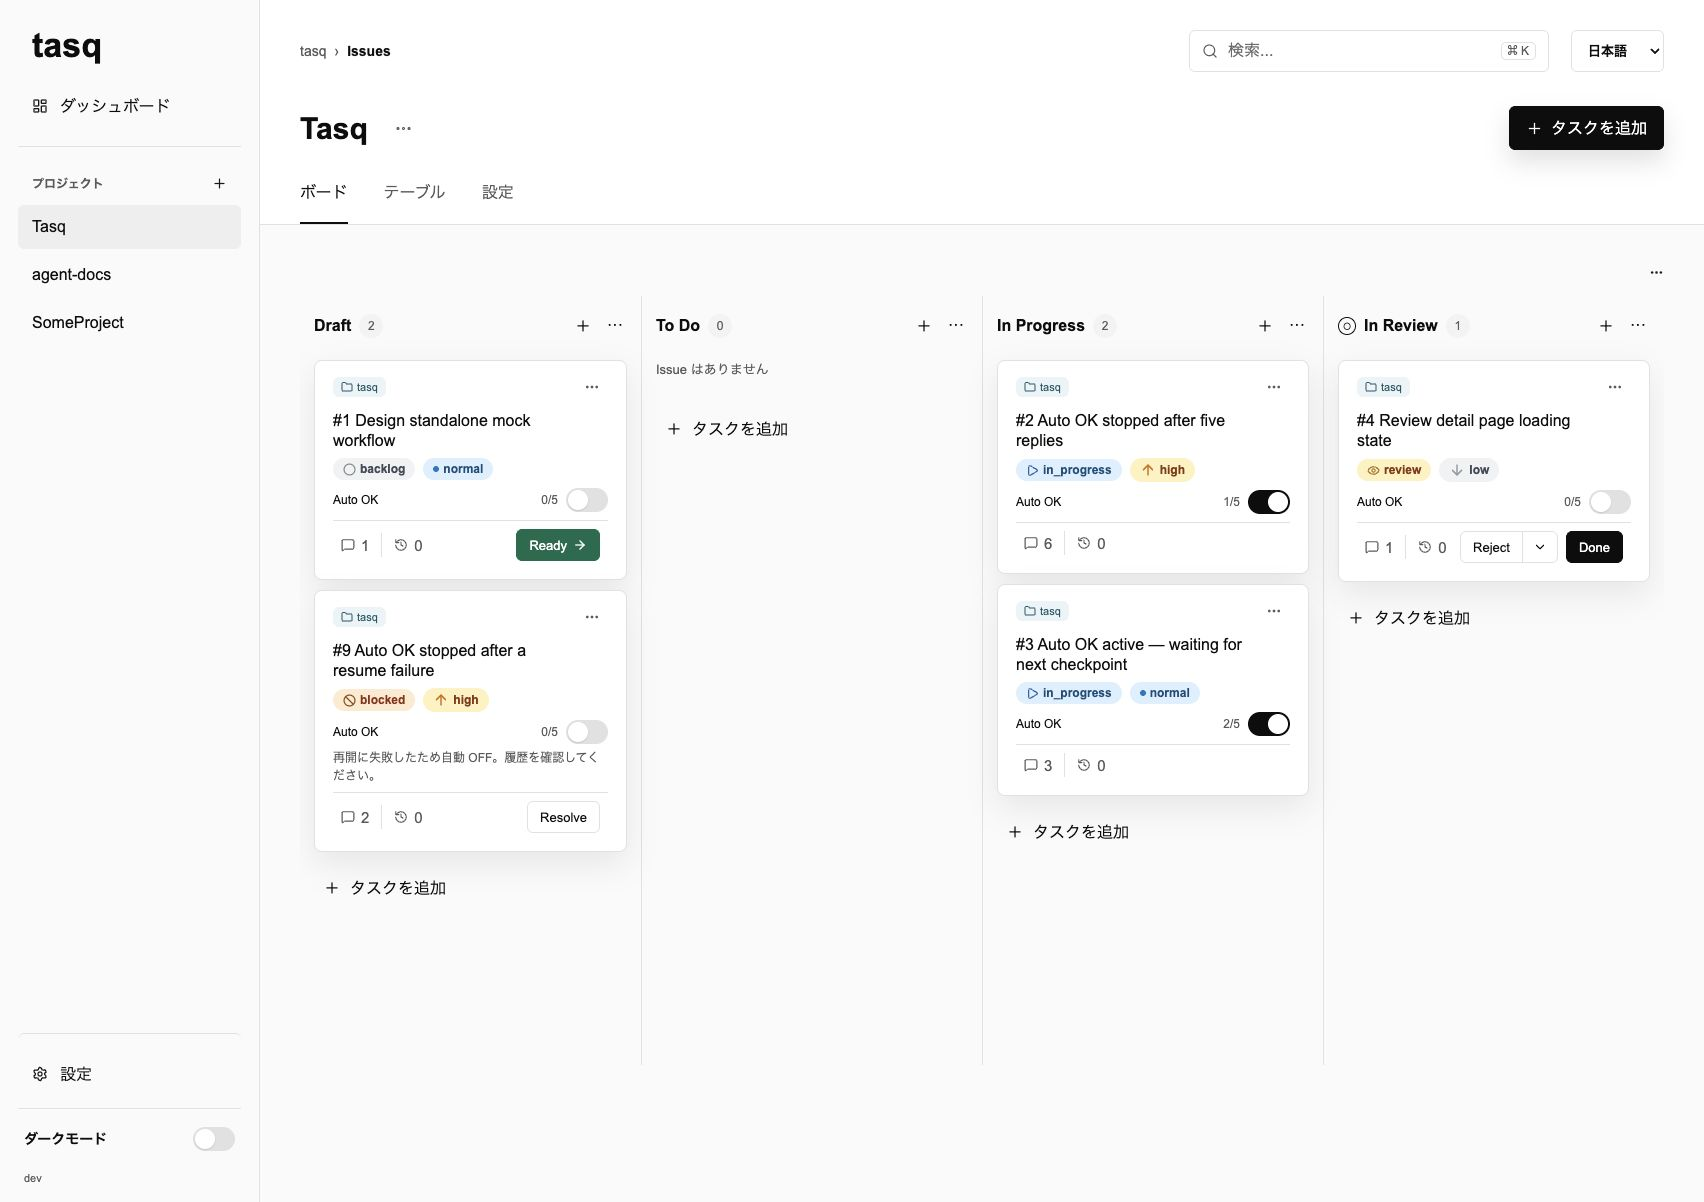
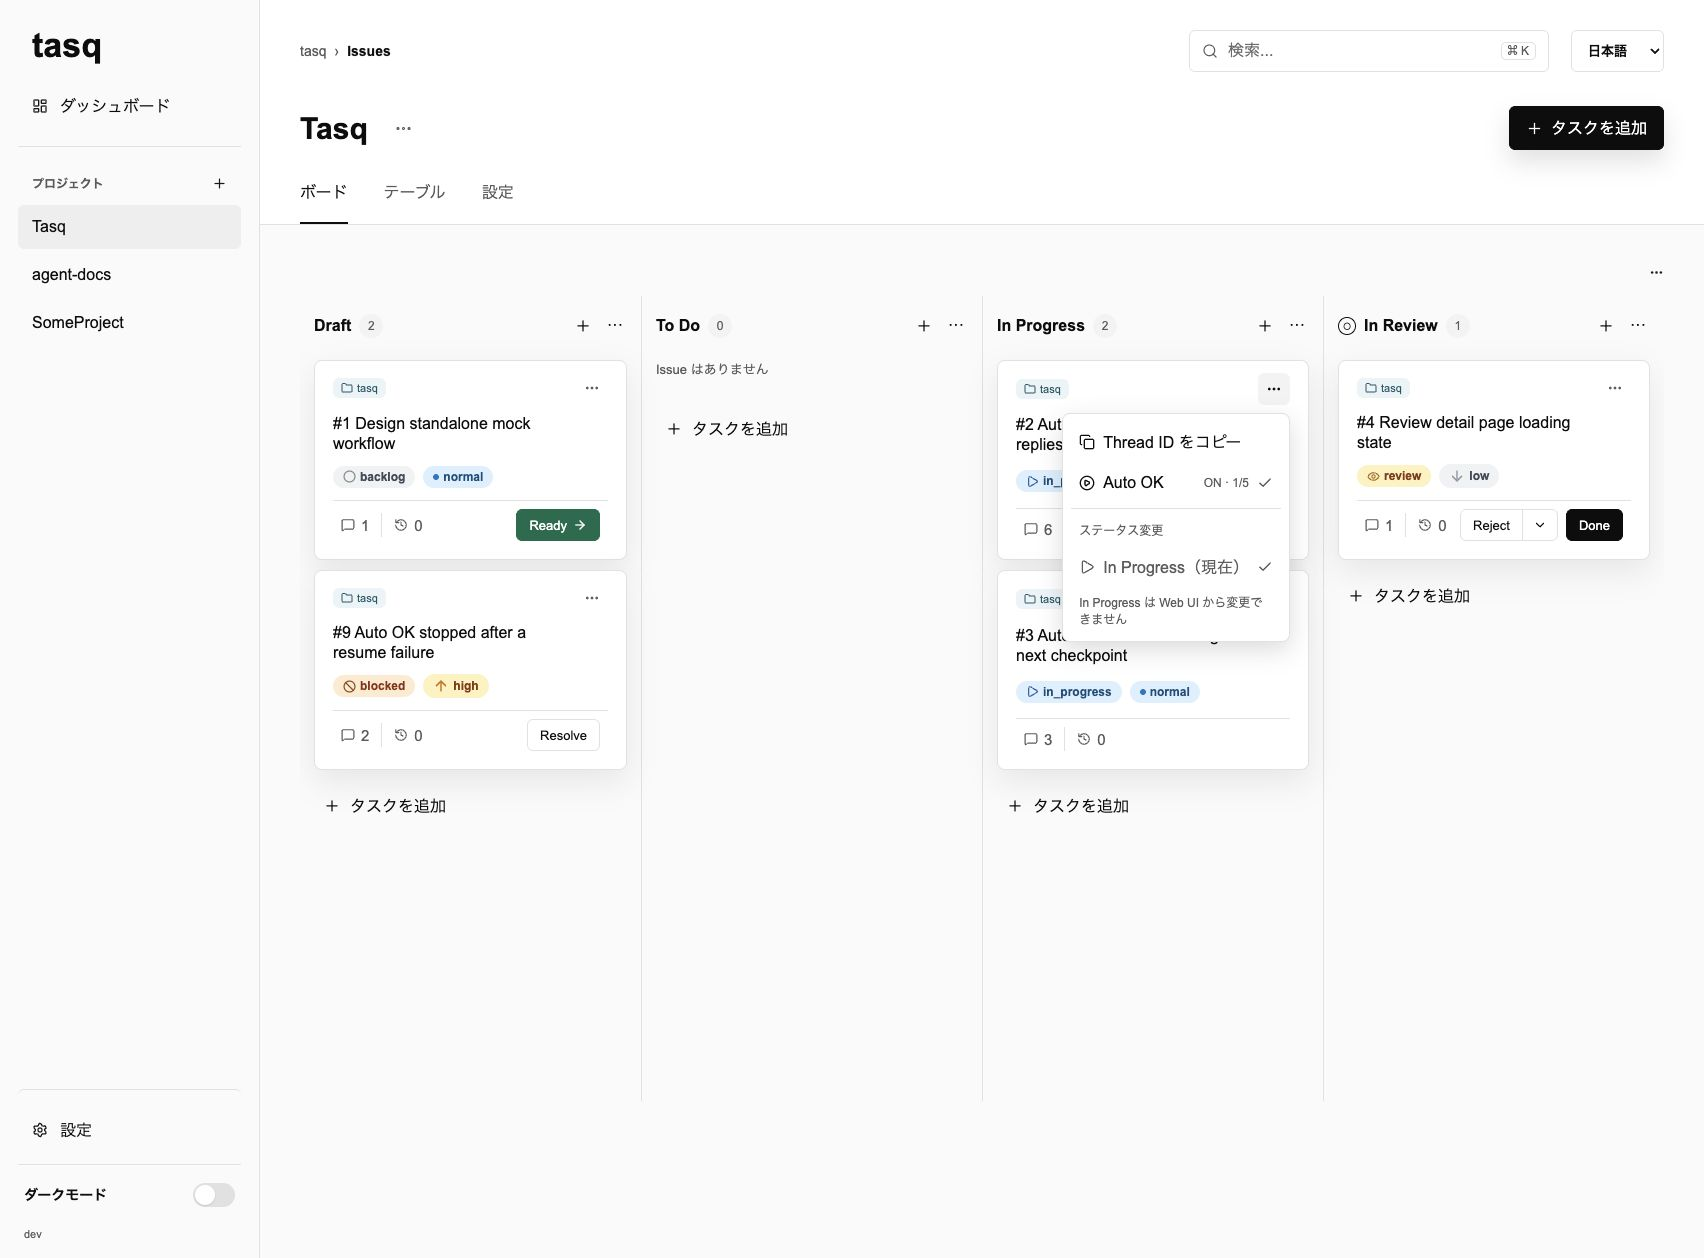
feat: configure auto ok from the issue card dropdown
Add a menuitemcheckbox-based Auto OK toggle with ON/OFF state, count persistence, keyboard support, and read-only coverage. Update the issue-card stories, tests, screenshots, and English/Japanese documentation.\n\nValidation: 159 frontend tests, typecheck, and build passed.

diff --git a/cmd/web/frontend/src/features/issues/components/auto-ok-control/index.test.tsx b/cmd/web/frontend/src/features/issues/components/auto-ok-control/index.test.tsx
@@ -5,13 +5,17 @@ import { storyIssue } from "@/stories/fixtures";
 import "@/lib/i18n";
 import { AutoOKControl } from "./index";
 
+function renderControl(props: Parameters<typeof AutoOKControl>[0]) {
+  return render(<div role="menu" aria-label="Issue actions"><AutoOKControl {...props} /></div>);
+}
+
 describe("AutoOKControl", () => {
   it("sends the issue setting and prevents duplicate changes while saving", async () => {
     const user = userEvent.setup();
     let finish: (() => void) | undefined;
     const onChange = vi.fn(() => new Promise<void>((resolve) => { finish = resolve; }));
-    render(<AutoOKControl issue={storyIssue()} onChange={onChange} />);
-    const toggle = screen.getByRole("checkbox");
+    renderControl({ issue: storyIssue(), onChange });
+    const toggle = screen.getByRole("menuitemcheckbox");
     await user.click(screen.getByText("Auto OK"));
     expect(onChange).toHaveBeenCalledWith(storyIssue().id, true);
     expect(toggle).toBeDisabled();
@@ -23,18 +27,35 @@ describe("AutoOKControl", () => {
 
   it("keeps the saved setting after an API failure", async () => {
     const user = userEvent.setup();
-    render(<AutoOKControl issue={storyIssue()} onChange={vi.fn().mockRejectedValue(new Error("offline"))} />);
-    const toggle = screen.getByRole("checkbox");
+    renderControl({ issue: storyIssue(), onChange: vi.fn().mockRejectedValue(new Error("offline")) });
+    const toggle = screen.getByRole("menuitemcheckbox");
     await user.click(screen.getByText("Auto OK"));
     await waitFor(() => expect(toggle).not.toBeDisabled());
-    expect(toggle).not.toBeChecked();
+    expect(toggle).toHaveAttribute("aria-checked", "false");
     expect(screen.getByRole("alert")).toBeInTheDocument();
   });
 
   it("shows the persisted count and automatic stop reason", () => {
-    render(<AutoOKControl issue={{ ...storyIssue(), autoOkCount: 5, autoOkStopReason: "limit" }} onChange={vi.fn()} />);
-    expect(screen.getByText("5/5")).toBeInTheDocument();
+    renderControl({ issue: { ...storyIssue(), autoOkCount: 5, autoOkStopReason: "limit" }, onChange: vi.fn() });
+    expect(screen.getByText("OFF · 5/5")).toBeInTheDocument();
     expect(screen.getByText(/5回に達した|after 5 replies/)).toBeInTheDocument();
-    expect(screen.getByRole("checkbox")).not.toBeChecked();
+    expect(screen.getByRole("menuitemcheckbox")).toHaveAttribute("aria-checked", "false");
+  });
+
+  it("exposes the saved checked state and supports keyboard toggling", async () => {
+    const user = userEvent.setup();
+    const onChange = vi.fn().mockResolvedValue(undefined);
+    renderControl({ issue: { ...storyIssue(), autoOk: true, autoOkCount: 2 }, onChange });
+    const item = screen.getByRole("menuitemcheckbox");
+    expect(item).toHaveAttribute("aria-checked", "true");
+    expect(item).toHaveTextContent("ON · 2/5");
+    item.focus();
+    await user.keyboard(" ");
+    expect(onChange).toHaveBeenCalledWith(storyIssue().id, false);
+  });
+
+  it("disables editing for read-only cards", () => {
+    renderControl({ issue: storyIssue(), disabled: true, onChange: vi.fn() });
+    expect(screen.getByRole("menuitemcheckbox")).toBeDisabled();
   });
 });

diff --git a/cmd/web/frontend/src/features/issues/components/auto-ok-control/index.tsx b/cmd/web/frontend/src/features/issues/components/auto-ok-control/index.tsx
@@ -1,5 +1,6 @@
 import { useTranslation } from "react-i18next";
-import { Switch } from "@/components/ui/switch";
+import { ContextMenuHelp, ContextMenuItem } from "@/components/ui/context-menu";
+import { IconProxy } from "@/components/ui/icon-proxy";
 import type { Issue } from "@/lib/types";
 import type { AutoOKChangeHandler } from "../issues-view/types";
 import { useAutoOKToggle } from "@/features/issues/hooks/use-auto-ok-toggle";
@@ -18,17 +19,22 @@ export function AutoOKControl({ issue, disabled = false, onChange }: {
 
   return (
     <div className={styles.control} aria-busy={isSaving}>
-      <label className={styles.row}>
-        <span>{t("issues.autoOK.label")}</span>
-        <span className={styles.count}>{issue.autoOkCount}/5</span>
-        <Switch
-          aria-label={t("issues.autoOK.toggle", { id: issue.id })}
-          checked={issue.autoOk}
-          disabled={disabled || isSaving || !onChange}
-          onChange={(enabled) => { void toggle(enabled); }}
-        />
-      </label>
-      {reason ? <span className={styles.reason}>{reason}</span> : null}
+      <ContextMenuItem
+        checked={issue.autoOk}
+        disabled={disabled || isSaving || !onChange}
+        icon={<IconProxy name="circle-play" />}
+        label={t("issues.autoOK.toggle", { id: issue.id })}
+        onSelect={() => { void toggle(!issue.autoOk); }}
+        trailingIcon={
+          <span className={styles.count}>
+            {issue.autoOk ? "ON" : "OFF"} · {issue.autoOkCount}/5
+            {issue.autoOk ? <IconProxy name="check" /> : null}
+          </span>
+        }
+      >
+        {t("issues.autoOK.label")}
+      </ContextMenuItem>
+      {reason ? <ContextMenuHelp>{reason}</ContextMenuHelp> : null}
       {hasError ? <span className={styles.error} role="alert">{t("issues.autoOK.saveError")}</span> : null}
     </div>
   );

diff --git a/cmd/web/frontend/src/features/issues/components/card/index.test.tsx b/cmd/web/frontend/src/features/issues/components/card/index.test.tsx
@@ -162,6 +162,19 @@ describe("IssueCard", () => {
     expect(within(menu).getAllByRole("separator")).toHaveLength(2);
   });
 
+  it("configures Auto OK only through the card action dropdown", async () => {
+    const user = userEvent.setup();
+    const onAutoOKChange = vi.fn().mockResolvedValue(undefined);
+    renderCard({ onAutoOKChange });
+    expect(screen.queryByText("Auto OK")).not.toBeInTheDocument();
+    await user.click(screen.getByRole("button", { name: "Issue actions for Wire issue board to generated client" }));
+    const menu = screen.getByRole("menu");
+    const autoOK = within(menu).getByRole("menuitemcheckbox", { name: "Auto OK for issue #24" });
+    expect(autoOK).toHaveAttribute("aria-checked", "false");
+    await user.click(autoOK);
+    expect(onAutoOKChange).toHaveBeenCalledWith(24, true);
+  });
+
   it.each([
     ["backlog", "Backlog", "lucide-inbox"],
     ["blocked", "Blocked", "lucide-circle-alert"],

diff --git a/cmd/web/frontend/src/components/ui/context-menu/index.tsx b/cmd/web/frontend/src/components/ui/context-menu/index.tsx
@@ -78,6 +78,7 @@ export function ContextMenuGroupLabel({ children }: { children: ReactNode }) {
 
 export function ContextMenuItem({
   children,
+  checked,
   disabled = false,
   icon,
   label,
@@ -87,6 +88,7 @@ export function ContextMenuItem({
   variant = "default",
 }: {
   children: ReactNode;
+  checked?: boolean;
   disabled?: boolean;
   icon?: ReactNode;
   label?: string;
@@ -97,12 +99,13 @@ export function ContextMenuItem({
 }) {
   return (
     <button
+      aria-checked={checked}
       aria-label={label}
       className={[styles.item, variant === "danger" ? styles.dangerItem : ""]
         .filter(Boolean)
         .join(" ")}
       disabled={disabled}
-      role="menuitem"
+      role={checked === undefined ? "menuitem" : "menuitemcheckbox"}
       title={title}
       type="button"
       onClick={onSelect}

diff --git a/cmd/web/frontend/src/features/issues/components/auto-ok-control/index.stories.tsx b/cmd/web/frontend/src/features/issues/components/auto-ok-control/index.stories.tsx
@@ -1,10 +1,25 @@
 import type { Meta, StoryObj } from "@storybook/react-vite";
 import { storyIssue } from "@/stories/fixtures";
+import { ContextMenu } from "@/components/ui/context-menu";
 import { AutoOKControl } from "./index";
 
 const meta = {
   title: "Features/Issues/AutoOKControl",
   component: AutoOKControl,
+  decorators: [(Story) => (
+    <div style={{ minHeight: 180 }}>
+      <ContextMenu
+        id="auto-ok-story-menu"
+        isOpen
+        label="Issue actions"
+        onOpenChange={() => {}}
+        placement="bottom-start"
+        trigger={(props) => <button type="button" {...props}>Actions</button>}
+      >
+        <Story />
+      </ContextMenu>
+    </div>
+  )],
   args: { issue: storyIssue(), onChange: async () => {} },
 } satisfies Meta<typeof AutoOKControl>;
 export default meta;

diff --git a/cmd/web/frontend/src/features/issues/components/card/index.tsx b/cmd/web/frontend/src/features/issues/components/card/index.tsx
@@ -162,6 +162,7 @@ export function IssueCard({
               {t("issues.card.openPullRequest")}
             </ContextMenuItem>
           ) : null}
+          <AutoOKControl issue={issue} disabled={readonly} onChange={onAutoOKChange} />
           <ContextMenuSeparator />
           <ContextMenuGroupLabel>{t("issues.card.changeStatus")}</ContextMenuGroupLabel>
           {statusOptions.map((status, index) => {
@@ -214,8 +215,6 @@ export function IssueCard({
         </div>
         {issue.queueStatus === "pending" ? <PendingBadge className={styles.pendingBadge} /> : null}
       </div>
-
-      <AutoOKControl issue={issue} disabled={readonly} onChange={onAutoOKChange} />
 
       <div className={styles.footerRow}>
         <div className={styles.metrics}>

diff --git a/cmd/web/frontend/src/components/ui/context-menu/index.stories.tsx b/cmd/web/frontend/src/components/ui/context-menu/index.stories.tsx
@@ -11,6 +11,7 @@ import {
 
 function ContextMenuStory() {
   const [isOpen, setIsOpen] = useState(true);
+  const [isChecked, setIsChecked] = useState(false);
 
   return (
     <ContextMenu
@@ -25,6 +26,14 @@ function ContextMenuStory() {
         </button>
       )}
     >
+      <ContextMenuItem
+        checked={isChecked}
+        trailingIcon={isChecked ? <IconProxy name="check" /> : undefined}
+        onSelect={() => setIsChecked((value) => !value)}
+      >
+        Automatically refresh
+      </ContextMenuItem>
+      <ContextMenuSeparator />
       <ContextMenuGroupLabel>Status</ContextMenuGroupLabel>
       <ContextMenuItem
         icon={<IconProxy name="circle" />}

diff --git a/cmd/web/frontend/src/features/issues/components/auto-ok-control/index.module.css b/cmd/web/frontend/src/features/issues/components/auto-ok-control/index.module.css
@@ -1,25 +1,21 @@
 .control {
   display: grid;
   gap: var(--space-1);
-  font-size: 12px;
-}
-
-.row {
-  display: flex;
-  align-items: center;
-  gap: var(--space-2);
+  max-width: 260px;
 }
 
 .count {
-  margin-left: auto;
+  display: inline-flex;
+  align-items: center;
+  gap: var(--space-2);
   color: var(--muted);
+  font-size: 12px;
   font-variant-numeric: tabular-nums;
 }
 
-.reason {
-  color: var(--muted);
-}
-
 .error {
+  margin: 0;
+  padding: 4px 8px;
   color: var(--danger);
+  font-size: 12px;
 }

diff --git a/cmd/web/frontend/src/features/issues/components/card/index.stories.tsx b/cmd/web/frontend/src/features/issues/components/card/index.stories.tsx
@@ -66,6 +66,7 @@ const meta = {
   args: {
     issue: summaryIssue(1, 3),
     onStatusChange: async () => undefined,
+    onAutoOKChange: async () => undefined,
     runCount: 2,
   },
 } satisfies Meta<typeof IssueCard>;

diff --git a/cmd/web/frontend/docs/ui-design-system.ja.md b/cmd/web/frontend/docs/ui-design-system.ja.md
@@ -617,10 +617,12 @@ gap: 14px;
   表示し、フリーテキストまたは組み込みの `Ok` / `Retry` ショートカットで
   Change Request を作成してから Issue を `ready` へ移動します。
 
-課題カードの `auto-ok-control` は、共通の `Switch` を使って、保存済みの Auto OK 設定、
-送信成功回数 `n/5`、自動 OFF の理由を表示します。保存中はスイッチを無効にします。
-失敗時は保存済みの値を保ち、API のエラートーストを表示します。課題 ID を含む
-アクセシブルな名前を付け、ラベルのクリックとキーボード操作に対応します。
+課題カードのプルダウンには、チェック可能な `ContextMenuItem` を使った
+`auto-ok-control` を配置します。`menuitemcheckbox` と `aria-checked` で保存済みの設定を
+伝え、ON/OFF と送信成功回数 `n/5` を表示します。自動 OFF の理由と保存エラーも
+プルダウン内に表示します。保存中は項目を無効にし、失敗時は保存済みの値を保ちます。
+課題 ID を含むアクセシブルな名前を付け、キーボード操作に対応します。
+Auto OK の設定はプルダウン内だけで行います。
 サーバー側の状態遷移は[課題ごとの Auto OK](../../../../docs/design/status.ja.md#課題ごとの-auto-ok)
 を参照してください。
 
@@ -798,7 +800,8 @@ issue table の実行行は `statusToneClassName(issue.status)` を適用し、
 - `Switch`、ソートボタン、コピーボタン、context menu アイテム、toast には、
   多くの場合 i18n キー経由で意味のある `aria-label` を付けます。
 - context menu には `aria-haspopup`、`aria-expanded`、`aria-controls`、
-  `role="menu"` / `role="menuitem"` を適用します。
+  `role="menu"` / `role="menuitem"` を適用します。チェック可能な項目は
+  `menuitemcheckbox` と `aria-checked` を使います。
 - toast は各アイテムを `role="status"` で、スタックを
   `aria-live="polite"` でラップします。
 - `IconProxy` 経由で描画されるアイコンは `aria-hidden="true"` かつ

diff --git a/cmd/web/frontend/docs/ui-design-system.md b/cmd/web/frontend/docs/ui-design-system.md
@@ -622,12 +622,13 @@ This is the recurring shape for `runs-section`, `comment-list`,
   The blocker is read-only context; free text or the built-in `Ok` / `Retry`
   shortcuts create the change request before the issue moves to `ready`.
 
-Issue cards also compose the shared `Switch` through the feature-owned
-`auto-ok-control`. It displays the persisted Auto OK setting, an `n/5` accepted
-reply count, and a text reason after automatic shutdown. Saving disables the
-switch; failures keep the saved value and use the API error toast. The control
-has an issue-specific accessible name and supports label clicks and keyboard
-input. [Issue Auto OK](../../../../docs/design/status.md#issue-auto-ok) defines
+The card action dropdown includes the feature-owned `auto-ok-control`, using a
+checkable `ContextMenuItem`. Its `menuitemcheckbox` role and `aria-checked` expose
+the saved setting, with ON/OFF and an `n/5` reply count shown in the menu. Reasons
+for automatic shutdown and save errors also appear inside the dropdown. Saving
+disables the item; failures preserve the saved value. The control has an
+issue-specific accessible name and supports keyboard activation. Auto OK is
+configured only in the dropdown. [Issue Auto OK](../../../../docs/design/status.md#issue-auto-ok) defines
 the server-owned lifecycle.
 
 ### Issue Board
@@ -800,7 +801,8 @@ new ones:
 - `Switch`, sort buttons, copy buttons, context menu items, and toasts expose
   meaningful `aria-label`s, often through i18n keys.
 - Context menus apply `aria-haspopup`, `aria-expanded`, `aria-controls`, and
-  `role="menu"` / `role="menuitem"`.
+  `role="menu"` / `role="menuitem"`. Checkable items use `menuitemcheckbox`
+  with `aria-checked`.
 - Toasts wrap each item in `role="status"` and the stack in `aria-live="polite"`.
 - Icons rendered through `IconProxy` are `aria-hidden="true"` and
   `focusable="false"`, so labels must live on the wrapping interactive element.
